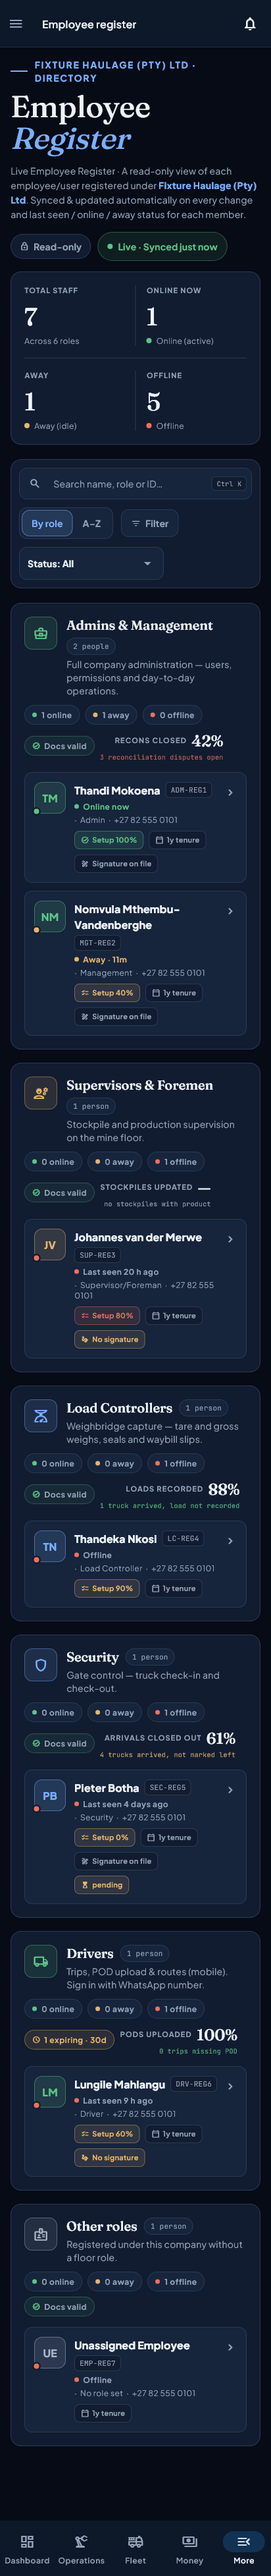
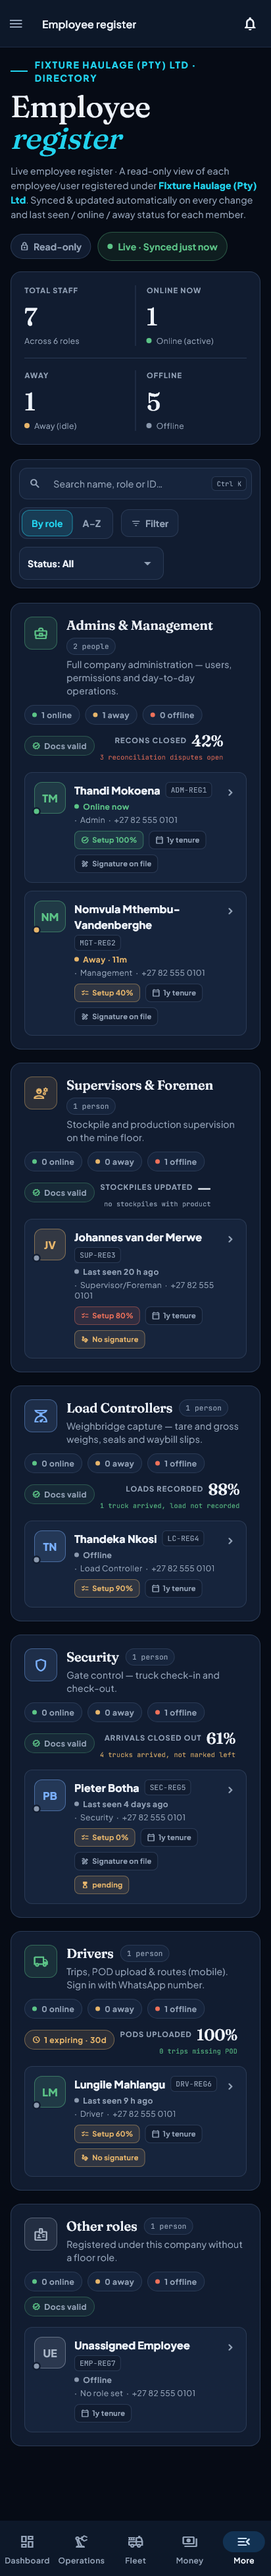
fix(register): one accent — the register's editorial blue becomes the product's cyan; Offline is inert; "Employee register"
Phase 3 mine-portal pass, 2026-08-23. The employee register spent a SECOND
accent: its eyebrow rule, the italic word in the hero, the company name in
the copy, the selected "By role" chip and the stat well were all the
in-transit blue (`tone(MlTone.transit)` behind a getter named `blue`, 16
sites) on a product whose reference has one accent (design-reference §5
rule 2, `#22D3EE` / `#0891B2`). Offline took the red/error dot — in the
stat cell and on every offline row — where offline is inert and the
profile next door already draws it faint. And the hero read "Employee
Register" / "Live Employee Register" under a shell bar reading "Employee
register".

The getter now resolves to `accentInk` (the transit tone still means in
transit wherever it is asked for by name); Offline is `textFaint`; the
hero and copy are sentence case. The fixture's transporter carrying
mine-floor roles is the register's deliberate one-per-bucket roster and is
left alone.

Pinned in employee_register_sweep_test.dart: the italic span reads
"register" and is not the transit blue; no "Live Employee Register"; the
Offline cell carries no red dot. Sabotaged by stashing the screen: "the
hero is title case again". Two goldens regenerated and looked at.

Changed region(s): [[0.0583, 0.0312, 0.466, 0.0624], [0.7573, 0.0624, 0.8447, 0.0936], [0.6408, 0.0624, 0.6699, 0.0936]]

diff --git a/test/widgets/employee_register_sweep_test.dart b/test/widgets/employee_register_sweep_test.dart
@@ -652,4 +652,57 @@ void main() {
     expect(find.text('Could not load the employee register'), findsOneWidget);
     expect(find.text('TOTAL STAFF'), findsNothing);
   });
+
+  // Phase 3 mine-portal pass, 2026-08-23. The register spent a SECOND accent:
+  // its eyebrow, the italic word in the title, the company name and the
+  // selected chip were the in-transit blue on a product with one accent
+  // (design-reference §5 rule 2). Offline took the red/error dot where
+  // offline is inert (the profile already drew it faint). And the hero read
+  // "Employee Register" under a shell bar reading "Employee register".
+  testWidgets('the editorial accent is THE accent, offline is inert, and the '
+      'title is sentence case', (tester) async {
+    tester.view.physicalSize = const Size(1600, 3600);
+    tester.view.devicePixelRatio = 1.0;
+    addTearDown(tester.view.reset);
+    await pumpRegister(
+      tester,
+      company: _company(OrgType.mineSupplier),
+      brightness: Brightness.dark,
+      embedded: true,
+    );
+
+    // The italic "register" span carries the accent ink, not the blue tone.
+    final hero = find.byWidgetPredicate((w) =>
+        w is RichText && w.text.toPlainText().startsWith('Employee '));
+    expect(hero, findsOneWidget);
+    final heroSpan = (hero.evaluate().single.widget as RichText).text as TextSpan;
+    final italic = heroSpan.children!
+        .whereType<TextSpan>()
+        .firstWhere((s) => s.style?.fontStyle == FontStyle.italic);
+    expect(italic.text, 'register', reason: 'the hero is title case again');
+    final blue = MlTone.transit.colors(Brightness.dark).fg;
+    expect(italic.style?.color, isNot(blue),
+        reason: 'the hero word is the in-transit blue — a second accent');
+    expect(find.text('Live employee register'), findsNothing); // it is a span
+    expect(find.textContaining('Live Employee Register'), findsNothing,
+        reason: '"Live Employee Register" is title case again');
+
+    // The Offline stat's dot is not the fault colour.
+    final red = MlTone.error.colors(Brightness.dark).fg;
+    final dots = find.byWidgetPredicate((w) =>
+        w is Container &&
+        w.decoration is BoxDecoration &&
+        (w.decoration as BoxDecoration).shape == BoxShape.circle &&
+        (w.decoration as BoxDecoration).color == red);
+    // Red dots may legitimately mark other things (an expired document); the
+    // Offline cell's own dot is found by its neighbour.
+    final offlineCell = find.ancestor(
+      of: find.text('OFFLINE'),
+      matching: find.byType(Column),
+    ).first;
+    final offlineRedDot =
+        find.descendant(of: offlineCell, matching: dots);
+    expect(offlineRedDot, findsNothing,
+        reason: 'the Offline stat carries a red dot');
+  });
 }

diff --git a/lib/features/company/screens/employee_register_screen.dart b/lib/features/company/screens/employee_register_screen.dart
@@ -57,8 +57,16 @@ class _Pal {
   Color get borderCard => _s.borderCard;
   Color get textStrong => _s.textStrong;
   Color get textMuted => _s.textMuted;
+  Color get textFaint => _s.textFaint;
 
-  Color get blue => tone(MlTone.transit);
+  /// The register's editorial accent — the eyebrow rule, the italic word in
+  /// the title, the company name in the copy, the selected chip. It was the
+  /// in-transit BLUE, a second accent on a screen whose product has one
+  /// (design-reference §5 rule 2; `#22D3EE` / `#0891B2`). Kept as a named
+  /// role so the sixteen sites read as "the accent" rather than a hue; the
+  /// transit tone is still `tone(MlTone.transit)` where it means in transit.
+  /// Phase 3 mine pass, 2026-08-23.
+  Color get blue => _s.accentInk;
   Color get green => tone(MlTone.done);
   Color get amber => tone(MlTone.atMine);
   Color get red => tone(MlTone.error);
@@ -560,8 +568,10 @@ class _EmployeeRegisterScreenState
             ),
             children: [
               const TextSpan(text: 'Employee '),
+              // Sentence case, as the shell bar above it already reads
+              // "Employee register" and every title on the reference does.
               TextSpan(
-                text: 'Register',
+                text: 'register',
                 style: TextStyle(fontStyle: FontStyle.italic, color: _p.blue),
               ),
             ],
@@ -576,7 +586,7 @@ class _EmployeeRegisterScreenState
             ),
             children: [
               const TextSpan(
-                text: 'Live Employee Register · A read-only view of each '
+                text: 'Live employee register · A read-only view of each '
                     'employee/user registered under ',
               ),
               TextSpan(
@@ -756,7 +766,8 @@ class _EmployeeRegisterScreenState
       cell(
         'Offline',
         '${byPresence[_Presence.offline] ?? 0}',
-        dotColor: _p.red,
+        // Offline is INERT, not a fault: slate, as the profile draws it.
+        dotColor: _p.textFaint,
         sub: 'Offline',
       ),
     ];
@@ -1562,7 +1573,7 @@ class _MemberCard extends ConsumerWidget {
   Color get _presenceColor => switch (presence) {
         _Presence.online => p.green,
         _Presence.away => p.amber,
-        _Presence.offline => p.red,
+        _Presence.offline => p.textFaint,
       };
 
   String get _presenceLabel {
